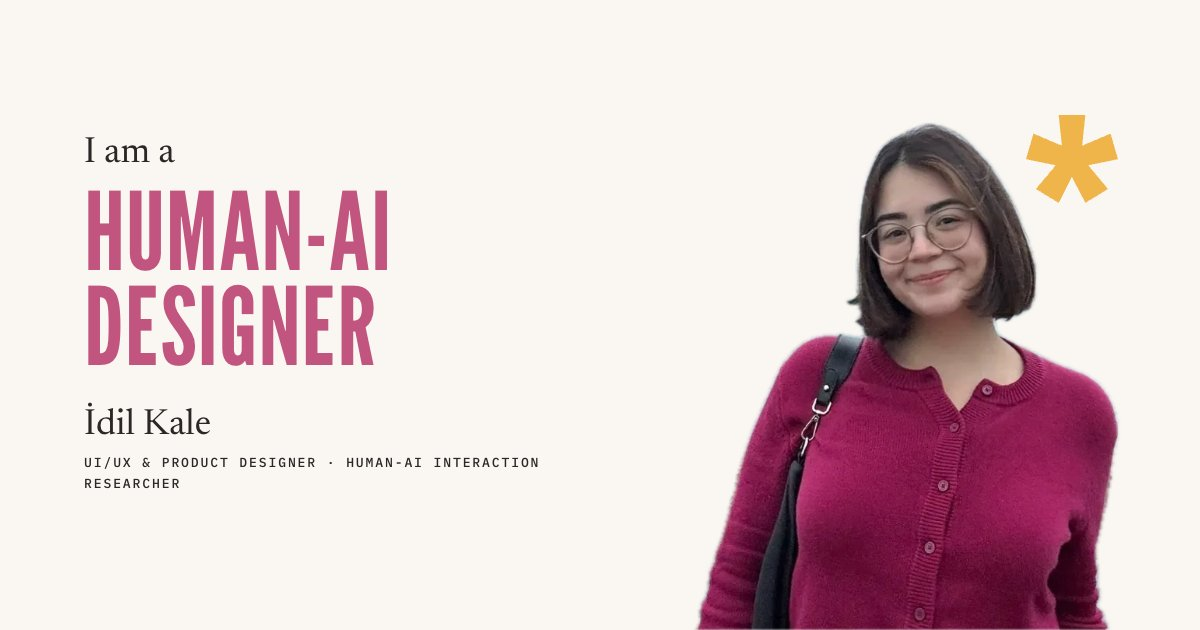
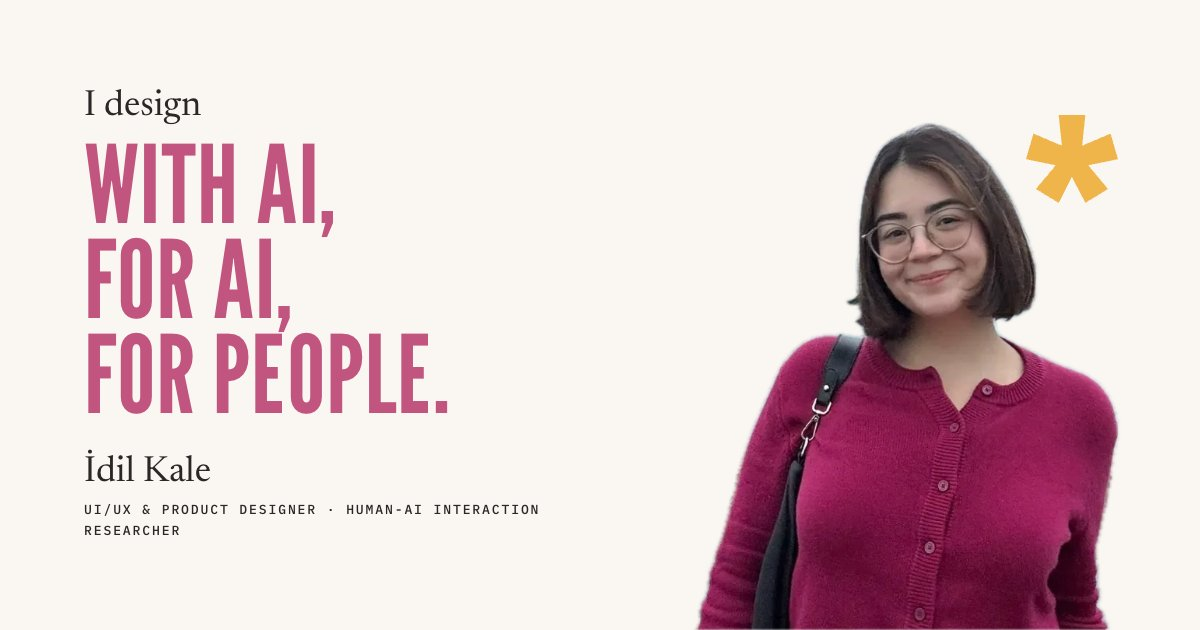
Hero: "I design with AI, for AI, for people"

Changed region(s): [[0.0617, 0.1508, 0.37, 0.6937], [0.0617, 0.7238, 0.4625, 0.8444]]

diff --git a/index.html b/index.html
@@ -3,12 +3,12 @@
 <head>
     <meta charset="UTF-8">
     <meta name="viewport" content="width=device-width, initial-scale=1.0">
-    <title>İdil Kale · Human-AI Designer</title>
+    <title>İdil Kale · Designing with AI, for AI, for people</title>
     <meta name="description" content="İdil Kale is a product designer and human-AI interaction researcher who studies how people and AI understand each other.">
     <link rel="canonical" href="https://www.idilkale.com/">
     <meta property="og:type" content="website">
     <meta property="og:site_name" content="İdil Kale">
-    <meta property="og:title" content="İdil Kale · Human-AI Designer">
+    <meta property="og:title" content="İdil Kale · Designing with AI, for AI, for people">
     <meta property="og:description" content="UI/UX &amp; product designer and human-AI interaction researcher. I study how people and AI understand each other, and design products people can trust.">
     <meta property="og:url" content="https://www.idilkale.com/">
     <meta property="og:image" content="https://www.idilkale.com/assets/og.jpg">
@@ -41,8 +41,8 @@
     <main id="main">
         <section class="hero" aria-labelledby="heroTitle">
             <div class="hero-copy">
-                <p class="hero-lead">I am a</p>
-                <h1 id="heroTitle" class="display hero-title"><span>Human-AI</span><span>Designer</span></h1>
+                <p class="hero-lead">I design</p>
+                <h1 id="heroTitle" class="display hero-title"><span>With AI,</span><span>For AI,</span><span>For people.</span></h1>
                 <div class="hero-sign">
                     <div>
                         <p class="hero-name">İdil Kale</p>
@@ -61,7 +61,7 @@
 
         <div class="band statement">
             <span class="asterisk asterisk--a" aria-hidden="true"><svg><use href="#ast"/></svg></span>
-            <p>As a Human-AI Designer, I study how <em>people</em> and <em>AI</em> understand each other, and design products people can <em>trust</em>.</p>
+            <p>I study how <em>people</em> and <em>AI</em> understand each other, and design products people can <em>trust</em>.</p>
             <span class="circle" aria-hidden="true"></span>
         </div>
 
@@ -240,7 +240,7 @@
                 <a class="pill mono" href="https://www.linkedin.com/in/idilkale1/" target="_blank" rel="noopener">LinkedIn ↗</a>
                 <a class="pill mono" href="idil/IdilKale_Resume.pdf" download="IdilKale_Resume.pdf">Resume ↗</a>
             </div>
-            <div class="footer-base mono"><span>© 2026 İdil Kale</span><span>Human-AI Designer</span></div>
+            <div class="footer-base mono"><span>© 2026 İdil Kale</span><span>With AI, for AI, for people</span></div>
         </div>
     </footer>
     <a class="to-top" id="toTop" href="#main" aria-label="Back to top"><svg viewBox="0 0 26 30"><path d="M13 29V2M2 13 13 2l11 11" fill="none" stroke="currentColor" stroke-width="2"/></svg></a>

diff --git a/armoni.html b/armoni.html
@@ -223,7 +223,7 @@
                 <a class="pill mono" href="https://www.linkedin.com/in/idilkale1/" target="_blank" rel="noopener">LinkedIn ↗</a>
                 <a class="pill mono" href="idil/IdilKale_Resume.pdf" download="IdilKale_Resume.pdf">Resume ↗</a>
             </div>
-            <div class="footer-base mono"><span>© 2026 İdil Kale</span><span>Human-AI Designer</span></div>
+            <div class="footer-base mono"><span>© 2026 İdil Kale</span><span>With AI, for AI, for people</span></div>
         </div>
     </footer>
     <a class="to-top" id="toTop" href="#main" aria-label="Back to top"><svg viewBox="0 0 26 30"><path d="M13 29V2M2 13 13 2l11 11" fill="none" stroke="currentColor" stroke-width="2"/></svg></a>

diff --git a/crexrtive.html b/crexrtive.html
@@ -101,7 +101,7 @@
                 <a class="pill mono" href="https://www.linkedin.com/in/idilkale1/" target="_blank" rel="noopener">LinkedIn ↗</a>
                 <a class="pill mono" href="idil/IdilKale_Resume.pdf" download="IdilKale_Resume.pdf">Resume ↗</a>
             </div>
-            <div class="footer-base mono"><span>© 2026 İdil Kale</span><span>Human-AI Designer</span></div>
+            <div class="footer-base mono"><span>© 2026 İdil Kale</span><span>With AI, for AI, for people</span></div>
         </div>
     </footer>
     <a class="to-top" id="toTop" href="#main" aria-label="Back to top"><svg viewBox="0 0 26 30"><path d="M13 29V2M2 13 13 2l11 11" fill="none" stroke="currentColor" stroke-width="2"/></svg></a>

diff --git a/path.html b/path.html
@@ -155,7 +155,7 @@
                 <a class="pill mono" href="https://www.linkedin.com/in/idilkale1/" target="_blank" rel="noopener">LinkedIn ↗</a>
                 <a class="pill mono" href="idil/IdilKale_Resume.pdf" download="IdilKale_Resume.pdf">Resume ↗</a>
             </div>
-            <div class="footer-base mono"><span>© 2026 İdil Kale</span><span>Human-AI Designer</span></div>
+            <div class="footer-base mono"><span>© 2026 İdil Kale</span><span>With AI, for AI, for people</span></div>
         </div>
     </footer>
     <a class="to-top" id="toTop" href="#main" aria-label="Back to top"><svg viewBox="0 0 26 30"><path d="M13 29V2M2 13 13 2l11 11" fill="none" stroke="currentColor" stroke-width="2"/></svg></a>

diff --git a/rts.html b/rts.html
@@ -195,7 +195,7 @@
                 <a class="pill mono" href="https://www.linkedin.com/in/idilkale1/" target="_blank" rel="noopener">LinkedIn ↗</a>
                 <a class="pill mono" href="idil/IdilKale_Resume.pdf" download="IdilKale_Resume.pdf">Resume ↗</a>
             </div>
-            <div class="footer-base mono"><span>© 2026 İdil Kale</span><span>Human-AI Designer</span></div>
+            <div class="footer-base mono"><span>© 2026 İdil Kale</span><span>With AI, for AI, for people</span></div>
         </div>
     </footer>
     <a class="to-top" id="toTop" href="#main" aria-label="Back to top"><svg viewBox="0 0 26 30"><path d="M13 29V2M2 13 13 2l11 11" fill="none" stroke="currentColor" stroke-width="2"/></svg></a>

diff --git a/signature.html b/signature.html
@@ -199,7 +199,7 @@
                 <a class="pill mono" href="https://www.linkedin.com/in/idilkale1/" target="_blank" rel="noopener">LinkedIn ↗</a>
                 <a class="pill mono" href="idil/IdilKale_Resume.pdf" download="IdilKale_Resume.pdf">Resume ↗</a>
             </div>
-            <div class="footer-base mono"><span>© 2026 İdil Kale</span><span>Human-AI Designer</span></div>
+            <div class="footer-base mono"><span>© 2026 İdil Kale</span><span>With AI, for AI, for people</span></div>
         </div>
     </footer>
     <a class="to-top" id="toTop" href="#main" aria-label="Back to top"><svg viewBox="0 0 26 30"><path d="M13 29V2M2 13 13 2l11 11" fill="none" stroke="currentColor" stroke-width="2"/></svg></a>

diff --git a/unisphere.html b/unisphere.html
@@ -198,7 +198,7 @@
                 <a class="pill mono" href="https://www.linkedin.com/in/idilkale1/" target="_blank" rel="noopener">LinkedIn ↗</a>
                 <a class="pill mono" href="idil/IdilKale_Resume.pdf" download="IdilKale_Resume.pdf">Resume ↗</a>
             </div>
-            <div class="footer-base mono"><span>© 2026 İdil Kale</span><span>Human-AI Designer</span></div>
+            <div class="footer-base mono"><span>© 2026 İdil Kale</span><span>With AI, for AI, for people</span></div>
         </div>
     </footer>
     <a class="to-top" id="toTop" href="#main" aria-label="Back to top"><svg viewBox="0 0 26 30"><path d="M13 29V2M2 13 13 2l11 11" fill="none" stroke="currentColor" stroke-width="2"/></svg></a>

diff --git a/vr-lab.html b/vr-lab.html
@@ -165,7 +165,7 @@
                 <a class="pill mono" href="https://www.linkedin.com/in/idilkale1/" target="_blank" rel="noopener">LinkedIn ↗</a>
                 <a class="pill mono" href="idil/IdilKale_Resume.pdf" download="IdilKale_Resume.pdf">Resume ↗</a>
             </div>
-            <div class="footer-base mono"><span>© 2026 İdil Kale</span><span>Human-AI Designer</span></div>
+            <div class="footer-base mono"><span>© 2026 İdil Kale</span><span>With AI, for AI, for people</span></div>
         </div>
     </footer>
     <a class="to-top" id="toTop" href="#main" aria-label="Back to top"><svg viewBox="0 0 26 30"><path d="M13 29V2M2 13 13 2l11 11" fill="none" stroke="currentColor" stroke-width="2"/></svg></a>

diff --git a/works.html b/works.html
@@ -178,7 +178,7 @@
                 <a class="pill mono" href="https://www.linkedin.com/in/idilkale1/" target="_blank" rel="noopener">LinkedIn ↗</a>
                 <a class="pill mono" href="idil/IdilKale_Resume.pdf" download="IdilKale_Resume.pdf">Resume ↗</a>
             </div>
-            <div class="footer-base mono"><span>© 2026 İdil Kale</span><span>Human-AI Designer</span></div>
+            <div class="footer-base mono"><span>© 2026 İdil Kale</span><span>With AI, for AI, for people</span></div>
         </div>
     </footer>
     <a class="to-top" id="toTop" href="#main" aria-label="Back to top"><svg viewBox="0 0 26 30"><path d="M13 29V2M2 13 13 2l11 11" fill="none" stroke="currentColor" stroke-width="2"/></svg></a>

diff --git a/catastrophe.html b/catastrophe.html
@@ -73,7 +73,7 @@
                 <a class="pill mono" href="https://www.linkedin.com/in/idilkale1/" target="_blank" rel="noopener">LinkedIn ↗</a>
                 <a class="pill mono" href="idil/IdilKale_Resume.pdf" download="IdilKale_Resume.pdf">Resume ↗</a>
             </div>
-            <div class="footer-base mono"><span>© 2026 İdil Kale</span><span>Human-AI Designer</span></div>
+            <div class="footer-base mono"><span>© 2026 İdil Kale</span><span>With AI, for AI, for people</span></div>
         </div>
     </footer>
     <a class="to-top" id="toTop" href="#main" aria-label="Back to top"><svg viewBox="0 0 26 30"><path d="M13 29V2M2 13 13 2l11 11" fill="none" stroke="currentColor" stroke-width="2"/></svg></a>

diff --git a/crisis-type.html b/crisis-type.html
@@ -80,7 +80,7 @@
                 <a class="pill mono" href="https://www.linkedin.com/in/idilkale1/" target="_blank" rel="noopener">LinkedIn ↗</a>
                 <a class="pill mono" href="idil/IdilKale_Resume.pdf" download="IdilKale_Resume.pdf">Resume ↗</a>
             </div>
-            <div class="footer-base mono"><span>© 2026 İdil Kale</span><span>Human-AI Designer</span></div>
+            <div class="footer-base mono"><span>© 2026 İdil Kale</span><span>With AI, for AI, for people</span></div>
         </div>
     </footer>
     <a class="to-top" id="toTop" href="#main" aria-label="Back to top"><svg viewBox="0 0 26 30"><path d="M13 29V2M2 13 13 2l11 11" fill="none" stroke="currentColor" stroke-width="2"/></svg></a>

diff --git a/digital-sun.html b/digital-sun.html
@@ -94,7 +94,7 @@
                 <a class="pill mono" href="https://www.linkedin.com/in/idilkale1/" target="_blank" rel="noopener">LinkedIn ↗</a>
                 <a class="pill mono" href="idil/IdilKale_Resume.pdf" download="IdilKale_Resume.pdf">Resume ↗</a>
             </div>
-            <div class="footer-base mono"><span>© 2026 İdil Kale</span><span>Human-AI Designer</span></div>
+            <div class="footer-base mono"><span>© 2026 İdil Kale</span><span>With AI, for AI, for people</span></div>
         </div>
     </footer>
     <a class="to-top" id="toTop" href="#main" aria-label="Back to top"><svg viewBox="0 0 26 30"><path d="M13 29V2M2 13 13 2l11 11" fill="none" stroke="currentColor" stroke-width="2"/></svg></a>
